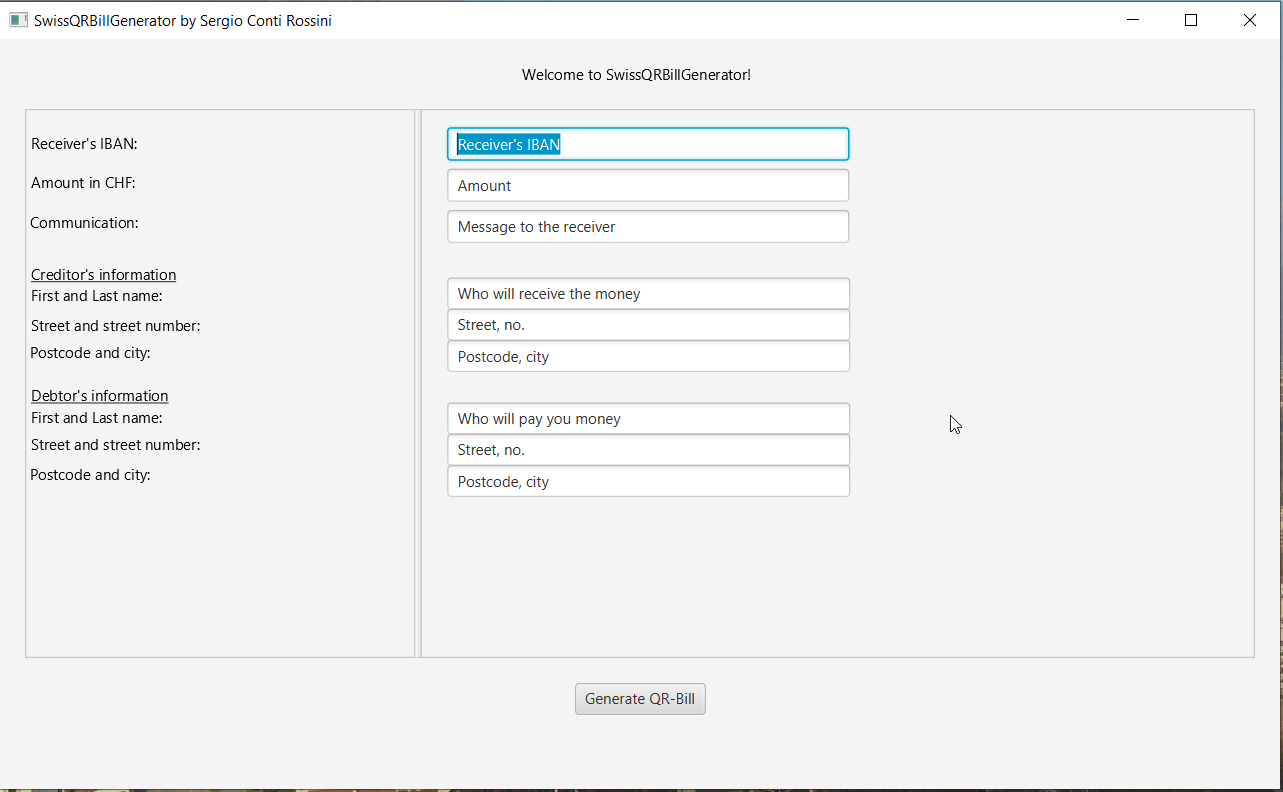
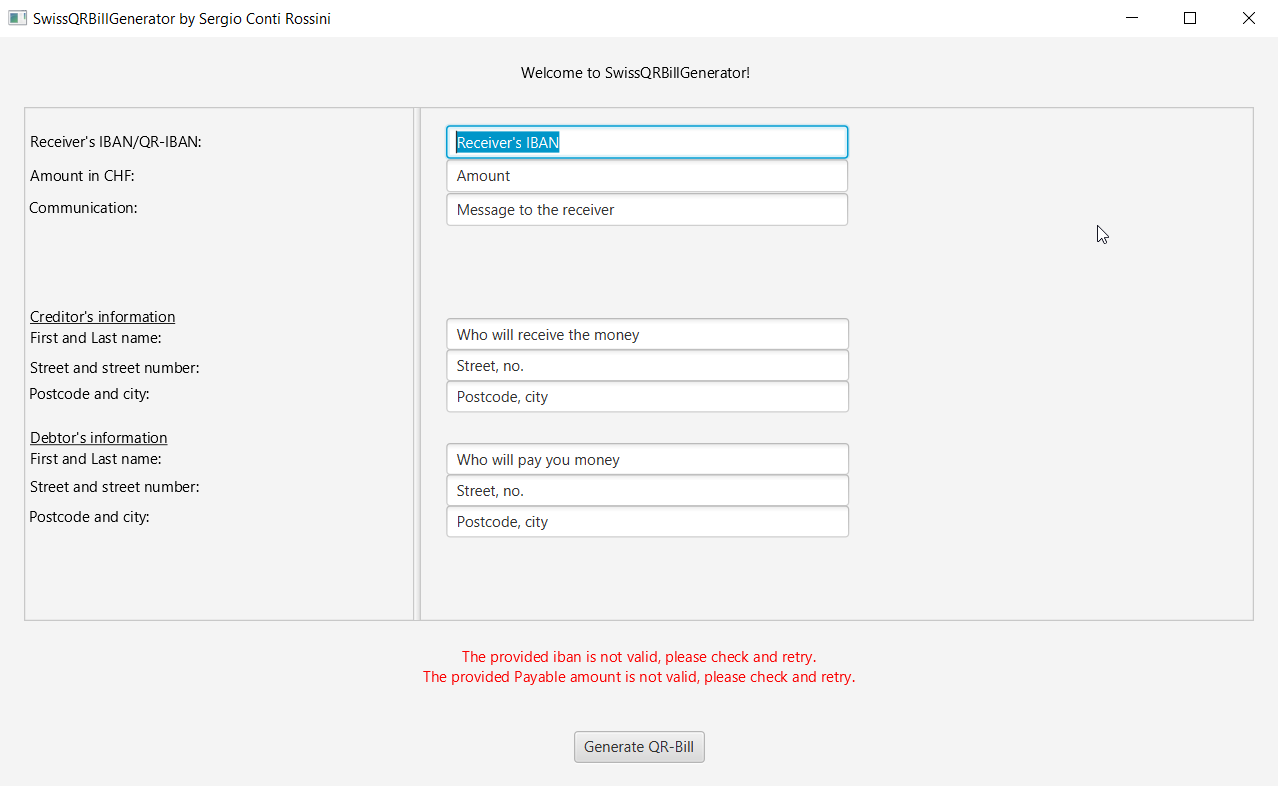
Added some error feedback and supporting now QR-IBAN with QR Reference codes

diff --git a/src/main/java/com/contirossini/graphicalswissqrbillgenerator/WindowController.java b/src/main/java/com/contirossini/graphicalswissqrbillgenerator/WindowController.java
@@ -2,7 +2,9 @@ package com.contirossini.graphicalswissqrbillgenerator;
 
 import javafx.fxml.FXML;
 import javafx.scene.control.TextField;
+import javafx.scene.text.Text;
 import javafx.stage.FileChooser;
+import net.codecrete.qrbill.generator.Payments;
 
 import java.io.File;
 
@@ -16,18 +18,56 @@ public class WindowController {
     public TextField creditorLocation;
     public TextField debtorStreet;
     public TextField debtorLocation;
+    public Text errorField;
+    public TextField qrReferenceCode;
+    public Text qrReferenceCodeText;
 
     @FXML
     protected void onSubmit() {
+        if(!checkInput()) return;
         FileChooser fileChooser = new FileChooser();
         fileChooser.setInitialFileName("qrbill");
         File selectedFile = fileChooser.showSaveDialog(SwissQRBillGenerator.getScene().getWindow());
+        if(selectedFile.toString().length()==0){
+            errorField.setText("Please select a valid Filepath and try again.\n");
+        }
         if (!selectedFile.toString().endsWith(".pdf")) {
             selectedFile = new File(selectedFile + ".pdf");
         }
         BillGenerator.GenerateBill(iban.getText(), amount.getText(), creditorFLName.getText(), creditorStreet.getText(),
                 creditorLocation.getText(), message.getText(), debtorFLName.getText(), debtorStreet.getText(),
-                debtorLocation.getText(), selectedFile.toString());
+                debtorLocation.getText(), qrReferenceCode.getText(), selectedFile.toString());
         System.out.println("Saved to:" + selectedFile);
+    }
+
+    protected boolean checkInput(){
+        errorField.setText("");
+        String errorMessage = "";
+        if(!Payments.isValidIBAN(iban.getText())){
+            errorMessage += "The provided iban is not valid, please check and retry.\n";
+        }
+        try {
+            Double.parseDouble(amount.getText());
+        } catch (NumberFormatException ignore) {
+            errorMessage += "The provided Payable amount is not valid, please check and retry.\n";
+        }
+        if(Payments.isQRIBAN(iban.getText()) && !Payments.isValidQRReference(qrReferenceCode.getText())){
+            errorMessage += "The provided QR Reference is not valid, please check and retry.\n";
+        }
+        if(errorMessage.length()>0){
+            errorField.setText(errorMessage);
+            return false;
+        }
+        errorField.setText("");
+        return true;
+    }
+
+    public void validateInput() {
+        checkInput();
+        if (Payments.isQRIBAN(iban.getText())) {
+            // Add the field for reference
+            qrReferenceCodeText.setVisible(true);
+            qrReferenceCode.setVisible(true);
+        }
     }
 }

diff --git a/src/main/java/com/contirossini/graphicalswissqrbillgenerator/BillGenerator.java b/src/main/java/com/contirossini/graphicalswissqrbillgenerator/BillGenerator.java
@@ -9,11 +9,12 @@ import java.nio.file.Path;
 import java.nio.file.Paths;
 
 public class BillGenerator {
+    // Small hack to allow shader plugin to make a JAR for a JavaFX Application
     public static void main(String[] args) {
         SwissQRBillGenerator.main(args);
     }
 
-    public static void GenerateBill(String iban, String amount, String creditorNameLastName, String creditorAddressLine1, String creditorAddressLine2, String communication, String debtorNameLastName, String debtorAddressLine1, String debtorAddressLine2, String saveToFile) {
+    public static void GenerateBill(String iban, String amount, String creditorNameLastName, String creditorAddressLine1, String creditorAddressLine2, String communication, String debtorNameLastName, String debtorAddressLine1, String debtorAddressLine2, String qrReference , String saveToFile) {
         // Setup bill
         Bill bill = new Bill();
         bill.setAccount(iban);
@@ -38,6 +39,11 @@ public class BillGenerator {
         debtor.setAddressLine2(debtorAddressLine2);
         debtor.setCountryCode("CH");
         bill.setDebtor(debtor);
+
+        if(qrReference.length()>0 && Payments.isValidQRReference(qrReference)){
+            bill.setReferenceType("QRR");
+            bill.setReference(qrReference);
+        }
 
         // Set output format
         BillFormat format = bill.getFormat();
